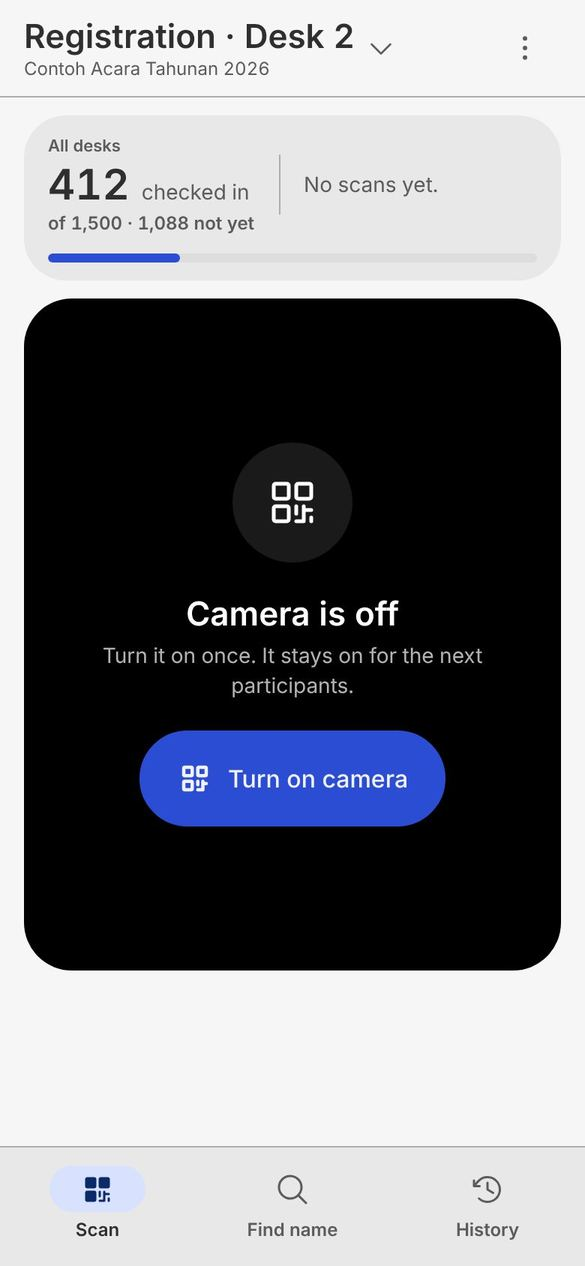
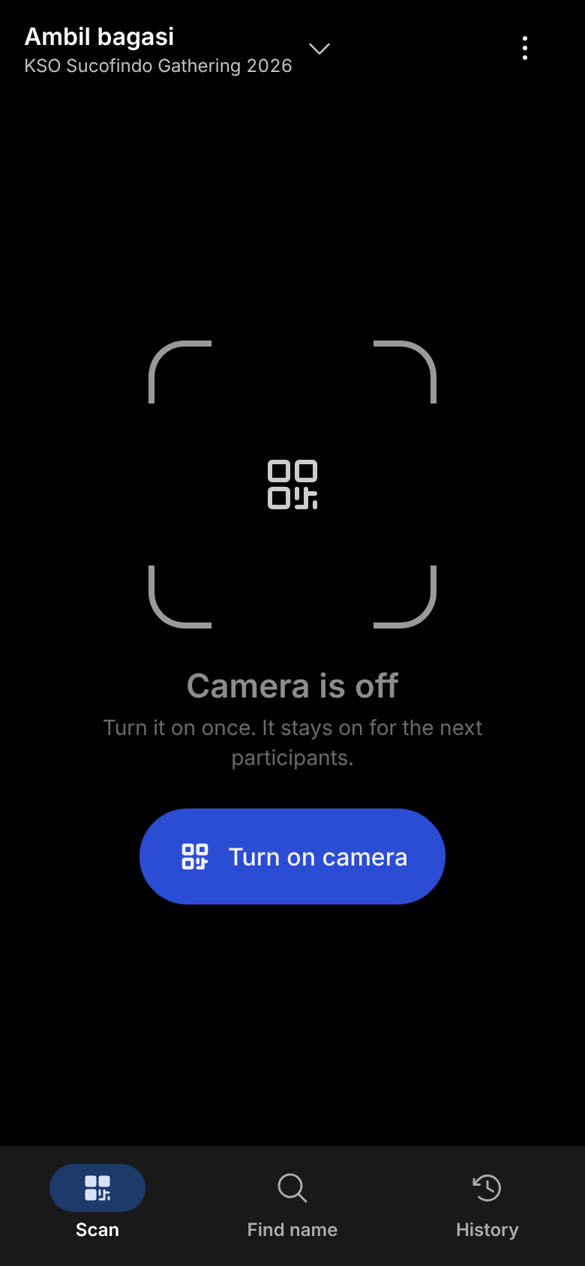
Scanner guide: new screenshots and wording for the redesigned scanner
Claude-Session: https://claude.ai/code/session_017zEPtuXEf7mEsNRqWQHsAS

diff --git a/public/panduan/scanner.html b/public/panduan/scanner.html
@@ -125,18 +125,19 @@ footer { margin-top: 36px; color: var(--muted); font-size: 13px; }
     <h2><span class="no">2</span>Scan QR</h2>
     <ol class="steps">
       <li>Di tab <span class="ui">Scan</span> (menu bawah), tekan <span class="ui">Turn on camera</span>. Izinkan kamera kalau browser bertanya.</li>
-      <li>Arahkan QR di badge atau HP peserta ke dalam kotak putih. Tidak perlu menekan apa pun, kamera membaca sendiri.</li>
-      <li>Saat terbaca, tulisan di kiri atas berubah jadi <span class="ui">Read, saving…</span>, lalu lembar hasil muncul dari bawah dengan bunyi.</li>
+      <li>Kamera memenuhi layar. Arahkan QR di badge atau HP peserta ke dalam bingkai bersudut putih. Tidak perlu menekan apa pun, kamera membaca sendiri.</li>
+      <li>Saat terbaca, sudut bingkai berubah biru dan tulisan di bawah bingkai menunjukkan kodenya, lalu lembar hasil berwarna penuh muncul dari bawah dengan bunyi.</li>
       <li>Baca nama di lembar hasil, cocokkan dengan orangnya, lalu lanjut ke peserta berikutnya.</li>
     </ol>
     <div class="pair">
       <figure><img src="/panduan/scanner/03-kamera-mati.jpg" alt="Layar Scan dengan kamera mati dan tombol Turn on camera" loading="lazy"><figcaption>Nyalakan kamera sekali</figcaption></figure>
-      <figure><img src="/panduan/scanner/04-kamera-nyala.jpg" alt="Kamera menyala dengan kotak bidik dan tulisan Ready to scan" loading="lazy"><figcaption>Ready to scan: arahkan QR ke kotak</figcaption></figure>
+      <figure><img src="/panduan/scanner/04-kamera-nyala.jpg" alt="Kamera menyala memenuhi layar dengan bingkai bidik" loading="lazy"><figcaption>Arahkan QR ke dalam bingkai</figcaption></figure>
     </div>
     <ul>
       <li>Kamera tetap menyala untuk peserta berikutnya. Kamera mati sendiri kalau Anda pindah tab atau HP dikunci; tekan <span class="ui">Turn on camera</span> lagi.</li>
-      <li>Kotak <span class="ui">All desks</span> di atas menunjukkan berapa orang sudah hadir di sesi ini dari semua meja, dan berapa yang belum. Angkanya diperbarui tiap 30 detik.</li>
-      <li>Ikon speaker di pojok kanan atas kamera mematikan atau menyalakan bunyi. Di iPhone, bunyi tidak keluar selama tombol silent aktif.</li>
+      <li>Baris di atas kamera (misalnya <span class="ui">128 of 412 checked in</span>) menunjukkan berapa orang sudah hadir di sesi ini dari semua meja. Angkanya diperbarui tiap 30 detik. Rinciannya ada di tab <span class="ui">History</span>.</li>
+      <li>Nama peserta terakhir yang tercatat tampil di bawah kamera. Ketuk untuk membuka <span class="ui">History</span>.</li>
+      <li>Ikon speaker di kanan atas kamera mematikan atau menyalakan bunyi. Di iPhone, bunyi tidak keluar selama tombol silent aktif.</li>
       <li>Ruangan gelap? Kalau HP punya senter, tombol senter muncul di sebelah ikon speaker.</li>
       <li>Pakai scanner genggam (USB/Bluetooth)? Cukup buka tab <span class="ui">Scan</span> lalu tembak badge. Kamera tidak perlu dinyalakan.</li>
     </ul>
@@ -145,16 +146,16 @@ footer { margin-top: 36px; color: var(--muted); font-size: 13px; }
   <section id="hasil">
     <h2><span class="no">3</span>Arti warna lembar hasil</h2>
     <div>
-      <div class="result"><span class="dot ok"></span><div><strong>Hijau · <span class="ui">Checked in</span></strong><p>Berhasil. Kalau peserta punya kursi, nomornya tampil besar (misalnya <span class="ui">Row C · Seat 12</span>). Bacakan ke peserta. Lembar hijau menutup sendiri setelah 3 detik; sentuh lembarnya kalau ingin tetap terbuka.</p></div></div>
-      <div class="result"><span class="dot warn"></span><div><strong>Oranye · <span class="ui">Already scanned</span></strong><p>Peserta ini sudah pernah dipindai di sesi ini (jam pertama tertulis). Peserta tetap boleh masuk dan angka hadir tidak bertambah. Tekan <span class="ui">Close</span>.</p></div></div>
-      <div class="result"><span class="dot bad"></span><div><strong>Merah · <span class="ui">Unknown code</span></strong><p>QR bukan milik peserta acara ini, atau pendaftarannya dibatalkan. Cari namanya di <span class="ui">Find name</span>. Kalau tidak ada dan acara menerima walk-in, tekan <span class="ui">Register walk-in</span>.</p></div></div>
+      <div class="result"><span class="dot ok"></span><div><strong>Hijau · <span class="ui">Checked in</span></strong><p>Berhasil. Kalau peserta punya kursi, nomornya tampil besar (misalnya <span class="ui">Row C · Seat 12</span>). Bacakan ke peserta. Lembar hijau menutup sendiri setelah 3 detik (isian di tombol <span class="ui">Scan next</span> menyusut sebagai hitung mundur); sentuh lembarnya kalau ingin tetap terbuka, atau tekan <span class="ui">Scan next</span> untuk langsung lanjut.</p></div></div>
+      <div class="result"><span class="dot warn"></span><div><strong>Oranye · <span class="ui">Already scanned</span></strong><p>Peserta ini sudah pernah dipindai di sesi ini (jam pertama tertulis). Peserta tetap boleh masuk dan angka hadir tidak bertambah. Tekan <span class="ui">Scan next</span>.</p></div></div>
+      <div class="result"><span class="dot bad"></span><div><strong>Merah · <span class="ui">Unknown code</span></strong><p>QR bukan milik peserta acara ini, atau pendaftarannya dibatalkan. Tekan <span class="ui">Find name</span> di lembar itu untuk langsung mencari namanya. Kalau tidak ada dan acara menerima walk-in, tekan <span class="ui">Register walk-in</span>.</p></div></div>
       <div class="result"><span class="dot bad"></span><div><strong>Merah · <span class="ui">Not saved</span></strong><p>Koneksi putus, peserta <b>belum</b> tercatat. Tekan <span class="ui">Retry</span> atau pindai ulang. Lihat bagian <a href="#masalah">Kalau ada masalah</a>.</p></div></div>
     </div>
     <div class="pair">
-      <figure><img src="/panduan/scanner/05-hasil-hijau.jpg" alt="Lembar hijau Checked in dengan nomor kursi" loading="lazy"><figcaption>Checked in + kursi</figcaption></figure>
+      <figure><img src="/panduan/scanner/05-hasil-hijau.jpg" alt="Lembar hijau Checked in dengan tombol Scan next" loading="lazy"><figcaption>Checked in</figcaption></figure>
       <figure><img src="/panduan/scanner/06-hasil-oranye.jpg" alt="Lembar oranye Already scanned" loading="lazy"><figcaption>Already scanned</figcaption></figure>
     </div>
-    <figure><img src="/panduan/scanner/07-hasil-merah.jpg" alt="Lembar merah Unknown code dengan tombol Register walk-in" loading="lazy"><figcaption>Unknown code: cari nama dulu, baru walk-in</figcaption></figure>
+    <figure><img src="/panduan/scanner/07-hasil-merah.jpg" alt="Lembar merah Unknown code dengan tombol Find name" loading="lazy"><figcaption>Unknown code: cari nama dulu, baru walk-in</figcaption></figure>
   </section>
 
   <section id="cari">
@@ -179,7 +180,7 @@ footer { margin-top: 36px; color: var(--muted); font-size: 13px; }
     <p class="note"><b>Selalu cari namanya dulu.</b> Tombol walk-in sengaja hanya muncul setelah pencarian tidak menemukan apa pun, supaya satu orang tidak terdaftar dua kali karena ejaan nama yang berbeda.</p>
     <ol class="steps">
       <li>Di <span class="ui">Find name</span>, ketik nama tamu. Kalau muncul <span class="ui">No matching participants</span>, coba sekali lagi dengan sebagian nama atau instansinya.</li>
-      <li>Tetap tidak ada? Tekan <span class="ui">Register as walk-in</span>. Nama yang Anda ketik sudah terisi di formulir. (Dari lembar merah <span class="ui">Unknown code</span>, tombolnya bernama <span class="ui">Register walk-in</span>.)</li>
+      <li>Tetap tidak ada? Tekan <span class="ui">Register as walk-in</span>. Nama yang Anda ketik sudah terisi di formulir. (Dari lembar merah <span class="ui">Unknown code</span>, tombolnya bernama <span class="ui">Register walk-in</span>, di bawah <span class="ui">Find name</span>.)</li>
       <li>Isi formulir <span class="ui">Walk-in guest</span>. Kolom tanpa tulisan <span class="ui">optional</span> wajib diisi. Isinya mengikuti formulir pendaftaran acara, jadi bisa ada pertanyaan tambahan.</li>
       <li>Tekan <span class="ui">Save and check in</span>. Tamu langsung tercatat hadir di sesi yang dipilih dan kode pesertanya dibuat otomatis.</li>
     </ol>
@@ -202,7 +203,7 @@ footer { margin-top: 36px; color: var(--muted); font-size: 13px; }
       <li><span class="ui">checked in</span> berhasil, <span class="ui">new</span> walk-in baru, <span class="ui">repeat</span> pindaian ulang, <span class="ui">failed</span> kode tidak dikenal.</li>
       <li>Riwayat hanya berisi pindaian dari HP ini sejak layar dibuka. Kalau halaman dimuat ulang, daftarnya kosong lagi, tetapi datanya tetap aman di server.</li>
       <li>Ragu apakah seseorang sudah hadir? Cari namanya di <span class="ui">Find name</span>. Orang yang sudah hadir bertuliskan <span class="ui">Checked in</span> beserta jamnya, dari meja mana pun.</li>
-      <li>Angka besar di atas riwayat menghitung orang dari semua meja, bukan jumlah pindaian.</li>
+      <li>Angka besar di atas riwayat menghitung orang dari semua meja, bukan jumlah pindaian. Kotak itu juga menulis berapa yang belum hadir.</li>
     </ul>
   </section>
 

diff --git a/docs/STATUS.md b/docs/STATUS.md
@@ -22,6 +22,7 @@ Current state only. History is in `git log` and PR descriptions. Last updated: 2
 - Lucky draw admin screens: 48 DESIGN.md deviations listed (raw fields and selects, hand-written toggles and buttons); restyle batch after the English PR.
 - Outfit summary card on Susunan acara and the Outfit page "Next" row: header row (icon, label, View), one block per outfit with the time label (approved by Mas 23 Oct): branch `feat/strip-outfit-jadwal`, visible on KSO, merge timing with Mas.
 - Build with AI: proposal written, waiting on Mas's "lanjut".
+- Scanner redesign (approved by Mas 24 Oct): branch `feat/scanner-modern`. Phone Scan tab is a full-screen dark viewfinder with corner brackets, count on one line, last check-in above the nav; result sheet is solid success/warning/error with full-width pill buttons ("Scan next" carries the auto-close countdown, Unknown code offers Find name); desktop keeps the centred sheet. No SQL. Visible on KSO: merge by 30 Oct with Mas's timing OK so the 1 Nov rehearsal uses it.
 - Admin language phase 4a (remaining Indonesian strings on admin screens, including the Check-in page): not started.
 
 ## Recently merged (for context; details in the PRs)
